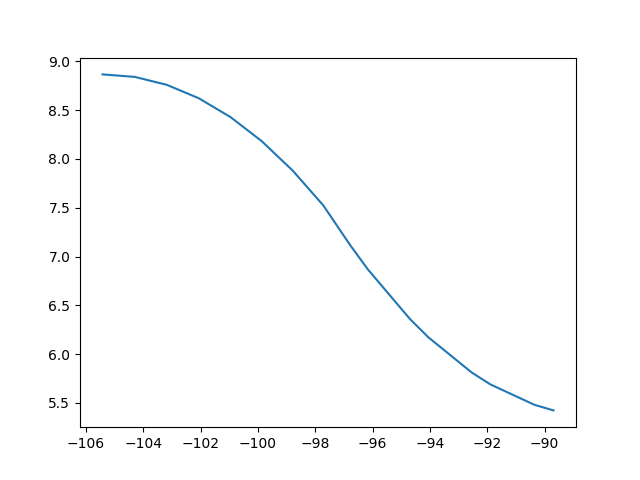
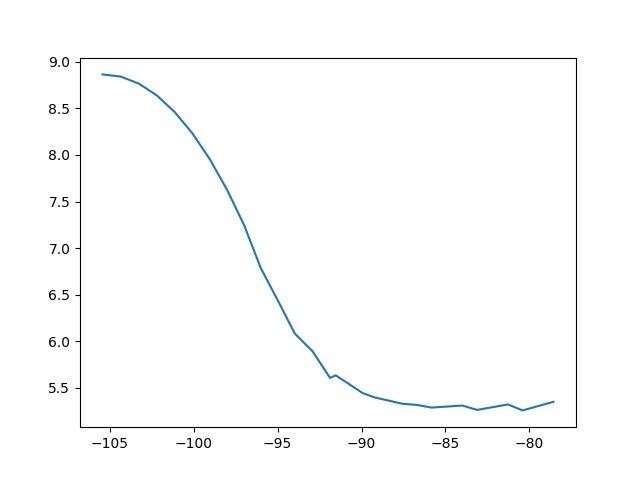
Da lavorarci

diff --git a/src/pdm4ar/exercises/ex12/planner.py b/src/pdm4ar/exercises/ex12/planner.py
@@ -6,6 +6,7 @@ import math
 from dg_commons.sim.models.vehicle import VehicleState
 from .structures import *
 import matplotlib.pyplot as plt
+import copy
 
 
 def compute_commands(current_speed, goal_speed, trajectory, wheelbase: float, init_time: float) -> dict:
@@ -169,12 +170,26 @@ def extract_path_points(path: Path) -> list[SE2Transform]:
     pts_list = []
     num_points_per_segment = 20
     for idx, seg in enumerate(path):
+        # if np.allclose(seg.length, 0):
+        #     continue
         seg.start_config.theta = mod_2_pi(seg.start_config.theta)
         seg.end_config.theta = mod_2_pi(seg.end_config.theta)
-        curve_pts = interpolate_curve_points(seg, num_points_per_segment)
-        pts_list.extend(curve_pts)
+        if seg.type is DubinsSegmentType.STRAIGHT:
+            line_pts = interpolate_line_points(seg, num_points_per_segment)
+            pts_list.extend(line_pts)
+        else:  # Curve
+            curve_pts = interpolate_curve_points(seg, num_points_per_segment)
+            pts_list.extend(curve_pts)
     pts_list.append(path[-1].end_config)
     return pts_list
+
+
+def interpolate_line_points(line: Line, number_of_points: float) -> list[SE2Transform]:
+    start = line.start_config
+    end = line.end_config
+    start_to_end = end.p - start.p
+    intervals = np.linspace(0, 1.0, number_of_points)
+    return [SE2Transform(start.p + i * start_to_end, start.theta) for i in intervals]
 
 
 def interpolate_curve_points(curve: Curve, number_of_points: int) -> list[SE2Transform]:
@@ -204,23 +219,27 @@ def get_next_point_on_curve(curve: Curve, point: SE2Transform, delta_angle: floa
 
 
 def smooth_delta(trajectory: dict) -> dict:
-    new_trajectory = trajectory.copy()
+    new_trajectory = copy.deepcopy(trajectory)
     values = list(trajectory.values())
     error = 0
     max_dif_delta = 0.05
     for i in range(len(values) - 1):
-        if values[i + 1].delta - values[i].delta > max_dif_delta:
-            error += values[i + 1].delta - values[i].delta - max_dif_delta
-            new_trajectory[(i + 1) / 10].delta = values[i].delta + max_dif_delta
-        elif values[i + 1].delta - values[i].delta < -max_dif_delta:
-            error += np.abs(values[i + 1].delta - values[i].delta) - max_dif_delta
-            new_trajectory[(i + 1) / 10].delta = values[i].delta - max_dif_delta
+        if values[i + 1].delta - new_trajectory[i / 10].delta > max_dif_delta and values[i + 1].delta > 0:
+            new_trajectory[(i + 1) / 10].delta = new_trajectory[i / 10].delta + max_dif_delta
+            error += values[i + 1].delta - new_trajectory[(i + 1) / 10].delta
+        elif values[i + 1].delta - new_trajectory[i / 10].delta < -max_dif_delta and values[i + 1].delta < 0:
+            new_trajectory[(i + 1) / 10].delta = new_trajectory[i / 10].delta - max_dif_delta
+            error += np.abs(values[i + 1].delta - new_trajectory[(i + 1) / 10].delta)
         else:
-            additional_error = min(error, (max_dif_delta - np.abs(values[i + 1].delta - values[i].delta)))
+            additional_error = min(error, max_dif_delta)
             if values[i + 1].delta > 0:
-                new_trajectory[(i + 1) / 10].delta = values[i + 1].delta + additional_error
+                new_trajectory[(i + 1) / 10].delta = min(
+                    values[i + 1].delta + additional_error, new_trajectory[i / 10].delta + max_dif_delta
+                )
             else:
-                new_trajectory[(i + 1) / 10].delta = values[i + 1].delta - additional_error
-            error -= additional_error
+                new_trajectory[(i + 1) / 10].delta = max(
+                    values[i + 1].delta - additional_error, new_trajectory[i / 10].delta - max_dif_delta
+                )
+            error -= np.abs(values[i + 1].delta - new_trajectory[(i + 1) / 10].delta)
 
     return new_trajectory

diff --git a/src/pdm4ar/exercises/ex12/dubins.py b/src/pdm4ar/exercises/ex12/dubins.py
@@ -1,3 +1,5 @@
+from re import L
+from typing import final
 from dg_commons import SE2Transform
 import math
 
@@ -109,7 +111,13 @@ def LR_path(start_config: SE2Transform, end_config: SE2Transform, radius: float)
     for circle in [start_circle, end_circle]:
         set_circle_angle(circle)
 
-    return [start_circle, end_circle]
+    end_point = [
+        end_circle.end_config.p[0] + np.cos(end_circle.end_config.theta) * 2,
+        end_circle.end_config.p[0] + np.sin(end_circle.end_config.theta) * 2,
+    ]
+    final_lane = Line(start_circle.end_config, SE2Transform(end_point, end_circle.end_config.theta))
+
+    return [start_circle, end_circle, final_lane]
 
 
 def RL_path(start_config: SE2Transform, end_config: SE2Transform, radius: float):
@@ -137,7 +145,13 @@ def RL_path(start_config: SE2Transform, end_config: SE2Transform, radius: float)
     for circle in [start_circle, end_circle]:
         set_circle_angle(circle)
 
-    return [start_circle, end_circle]
+    end_point = [
+        end_circle.end_config.p[0] + np.cos(end_circle.end_config.theta) * 10,
+        end_circle.end_config.p[1] + np.sin(end_circle.end_config.theta) * 10,
+    ]
+    final_lane = Line(end_circle.end_config, SE2Transform(end_point, end_circle.end_config.theta))
+
+    return [start_circle, end_circle, final_lane]
 
 
 def set_circle_angle(circle: Curve):

diff --git a/src/pdm4ar/exercises/ex12/agent.py b/src/pdm4ar/exercises/ex12/agent.py
@@ -1,7 +1,6 @@
 from pickle import TRUE
 import random
 from dataclasses import dataclass
-from turtle import speed
 from typing import Sequence
 from dg_commons import SE2Transform
 
@@ -185,10 +184,9 @@ class Pdm4arAgent(Agent):
             """
             self.trajectory_started = True
         # If the trajectory is started compute the commands
+        ind = round(float(sim_obs.time) + 0.1, 1)
         if self.trajectory_started and list(self.trajectory.keys())[-1] > float(sim_obs.time):
-            commands = self.compute_actual_commands(
-                current_state, self.trajectory[round(float(sim_obs.time) + 0.1, 1)], self.sg.wheelbase
-            )
+            commands = self.compute_actual_commands(current_state, self.trajectory[ind], self.sg.wheelbase)
 
         if self.trajectory_started and list(self.trajectory.keys())[-1] <= float(sim_obs.time):
             commands = VehicleCommands(acc=0, ddelta=0)
